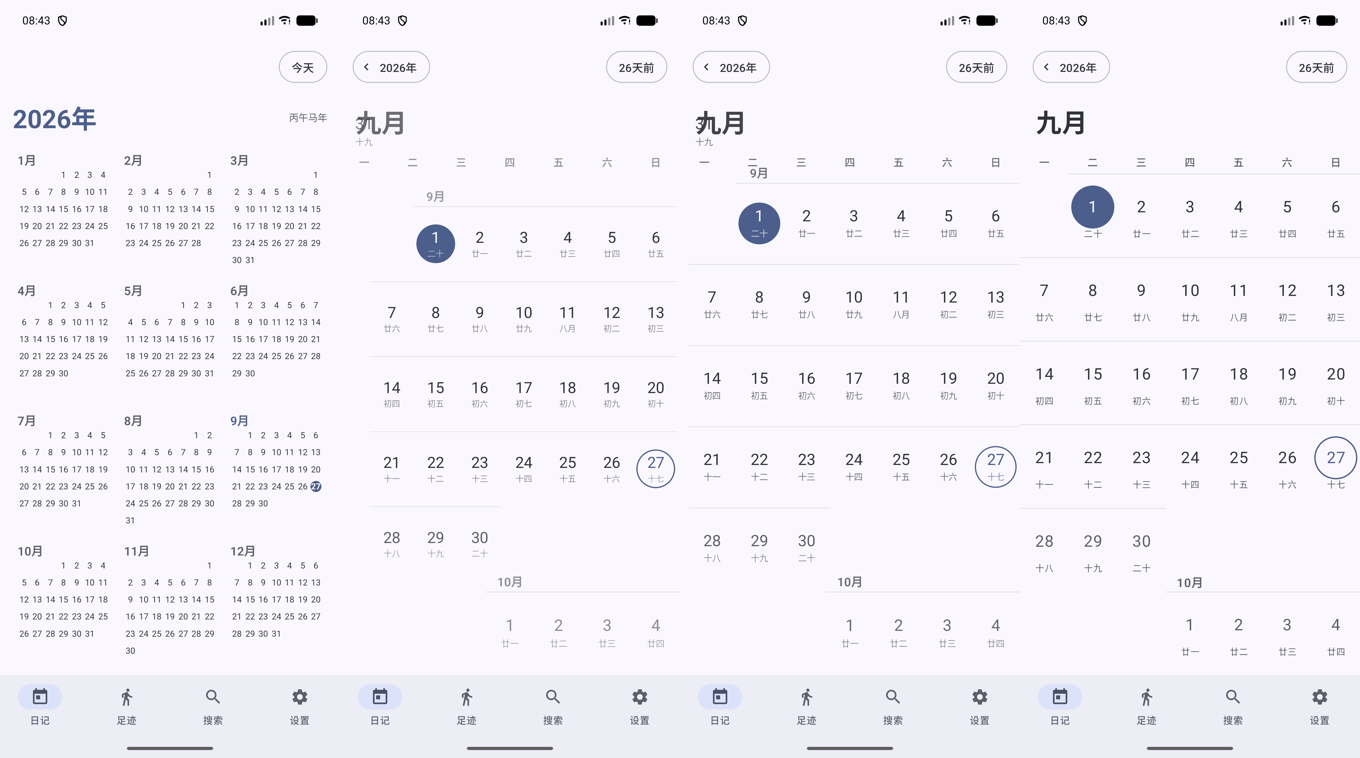
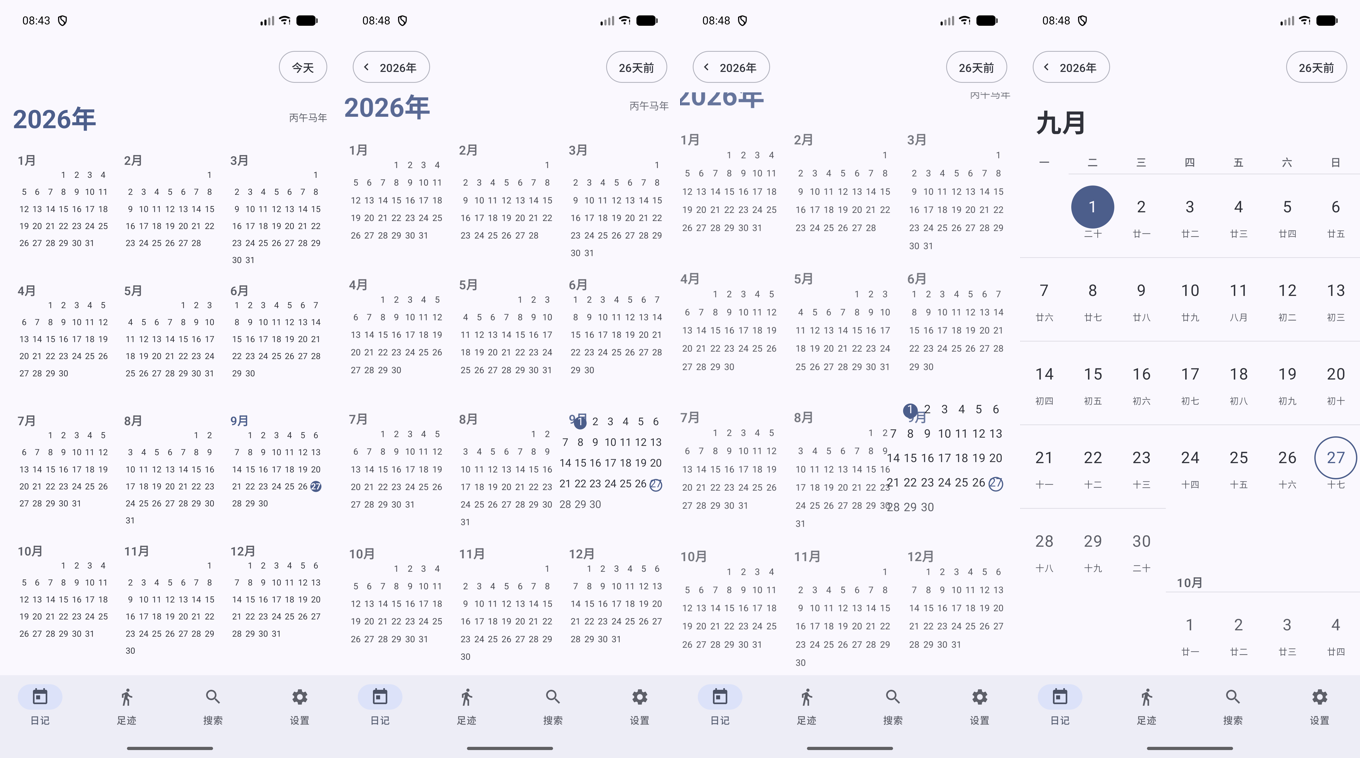
fix(home): morph 绘制裁在钉住栏之下；从年历进月态不再乱选 1 号
用户两条反馈：

1. "其他日期的动画是不需要的，特别是前一个月的日期……动画覆盖在顶部固定栏之上，
   导致在动画结束的时候，原本应该在固定栏下方的日期突然消失。"
   —— morph 层的绘制**没有裁在钉住栏之下**：连续流是 `height(viewportH) +
   offset(headerH) + clip`，morph 层却是想画哪儿画哪儿，"上个月露在视口里的那几行"
   因此画到了大标题与星期栏上面；收尾换回真实图层时它们按内容区被裁掉，看着就是
   "突然消失"。现在整块网格 / 两条 peek / 小标题统一 `clipRect(top = 钉住栏底部)`；
   并且上个月那几行**只在源矩形之上确实还露着时才画**（年→月时目标月已被拨到静止
   位置，上个月整块在内容区之上，本来就一行都不该画）。
2. "月视图下的选中日期的选中效果目前没有反应真实的选中日期，每次从年视图到月视图的
   时候都会自动在 1 号上显示选中效果，但实际不应该被选中。"
   —— iOS 的 `HomeViewModel.selectMonth(_:)` 只写 `monthPage`、**不动 `selectedDate`**，
   我在 Android 里顺手把选中日设成了该月 1 号。现在与 iOS 一致：选中日保持原样；
   它不在当前显示的月里时，月视图**没有高亮**（顶栏右胶囊照实显示具体日期）。

实测（AVD）：月→年首帧与点之前**逐像素相同**（0 个像素差异，含滚到半月位置的情况）；
年→月以被点卡片为中心展开、顶部再无越界日期；从年历点「10月」→ 月视图无高亮；
点「9月」→ 高亮回到真实的 9月27日。全量 418 条单测 + clean build 通过、零警告。

diff --git a/app/src/main/java/com/cov/justdiary/ui/home/YearMonthMorph.kt b/app/src/main/java/com/cov/justdiary/ui/home/YearMonthMorph.kt
@@ -18,6 +18,7 @@ import androidx.compose.ui.geometry.Offset
 import androidx.compose.ui.geometry.Size
 import androidx.compose.ui.graphics.Color
 import androidx.compose.ui.graphics.drawscope.DrawScope
+import androidx.compose.ui.graphics.drawscope.clipRect
 import androidx.compose.ui.graphics.drawscope.Stroke
 import androidx.compose.ui.graphics.graphicsLayer
 import androidx.compose.ui.platform.LocalDensity
@@ -157,9 +158,26 @@ fun YearMonthMorph(
             val cellPx = m.cellW * density.density
             val rowPx = m.cellH * density.density
 
+            // ⚠ **一切日期都裁在钉住栏之下**（内容区），与连续流的裁剪逐像素一致。
+            //
+            // 少了这一层裁剪：上个月露在视口里的那几行会画到**大标题与星期栏上面**，
+            // 而动画收尾换回真实图层时，流是按内容区裁的 —— 那些日期就"突然消失"
+            // （用户 2026-09-27 的原话）。年→月时更明显：目标月被无动画地拨到静止位置，
+            // 上个月整块都在内容区之上，本来就一行都不该画。
+            clipRect(
+                left = 0f,
+                top = bodyTop,
+                right = size.width,
+                bottom = size.height,
+            ) {
+
             // ---- 上个月露在视口里的那几行：不变换、快速淡出 ----
             val neighborAlpha = 1f - CalendarLayout.clamp01(p * 3f)
-            if (prevBlock != null && neighborAlpha > 0.01f) {
+            // 上个月那几行只在"源矩形之上确实还露着"时才画：年→月时目标月已经被拨到
+            // 静止位置，上个月整块都在内容区之上 —— 一行都不该画（用户：
+            // "特别是前一个月的日期，你现在前一个月的日期也有动画"）。
+            val prevBottom = prevBlock?.let { bodyTop + (it.bottom - off) * density.density } ?: 0f
+            if (prevBlock != null && neighborAlpha > 0.01f && prevBottom > bodyTop + 0.5f) {
                 CalendarGrid.displayedWeeks(prevBlock.monthFirst, weekStart).forEachIndexed { i, week ->
                     val rowY = bodyTop + (prevBlock.top + i * layout.rowH - off) * density.density
                     if (rowY + layout.rowH * density.density > bodyTop - 1f && rowY < size.height) {
@@ -287,6 +305,8 @@ fun YearMonthMorph(
                     alpha = peekAlpha,
                 )
             }
+
+            }   // clipRect：内容区（钉住栏之下）
         }
 
         // ---- 大标题 + 星期栏：位置不动，只按 `late` 淡入 ----

diff --git a/app/src/main/java/com/cov/justdiary/ui/home/HomeScreen.kt b/app/src/main/java/com/cov/justdiary/ui/home/HomeScreen.kt
@@ -441,7 +441,11 @@ fun HomeScreen(
         if (yearMorphing) return
         val key = CalendarGrid.monthKey(year, month)
         monthKey = key
-        selectedKey = DateUtil.dayKeyOf(LocalDate.of(year, month, 1))
+        // ⚠ **不动选中日** —— 与 iOS 的 `HomeViewModel.selectMonth(_:)` 一致（它只写
+        // `monthPage`）。这里曾经顺手把选中日设成该月 1 号，于是"从年历进月视图"会在
+        // 1 号上冒出一个选中效果，而那一天根本没被选过（用户 2026-09-27 反馈）。
+        // 选中日仍是原来那天：若它不在当前显示的月里，月视图就不该有任何高亮
+        // （顶栏右胶囊会照实显示具体日期，见 `todayPillLabel`）。
         jumpToMonth(key, animated = false)
         yearZoomingIn = false
         // ⚠ 这三行必须**同一帧**生效：`mode` 翻成月态、`yearMorphing` 置位、进度从 1 起。

diff --git a/docs/migration-progress.md b/docs/migration-progress.md
@@ -1995,6 +1995,30 @@ LazyRow(state = state, flingBehavior = rememberSnapFlingBehavior(state)) {
 修法：把网格左边缘 `gridLeft` 一路传给格子 / 分割线 / 小标题（相邻月那两条 peek 传 0，
 它们本来就铺满整宽）。截图 `docs/ui-audit/r7-1…r7-3`（重拍）。
 
+### 用户复测第 3 条：日期**不裁在钉住栏之下** + 进月态**乱选 1 号**
+
+用户："只要计算选中月的日期的动画，其他日期的动画是不需要的，特别是前一个月的日期……
+动画覆盖在顶部固定栏之上，导致在动画结束的时候，原本应该在固定栏下方的日期突然消失。"
+
+两处一起修：
+
+1. **morph 层的绘制没有裁在钉住栏之下**：连续流的内容是 `height(viewportH) + offset(headerH)
+   + clip` —— 也就是"钉住栏以下"才画；morph 层却是**想画哪儿画哪儿**。于是
+   "上个月露在视口里的那几行"画到了大标题与星期栏上面，而动画收尾换回真实图层时
+   那些日期按内容区被裁掉 —— 用户看到的"突然消失"。现在整块网格 / 两条 peek / 小标题
+   一律 `clipRect(top = 钉住栏底部)`，与连续流逐像素一致。
+   顺带：上个月那几行**只在源矩形之上确实还露着时才画**（年→月时目标月已被拨到静止位置，
+   上个月整块都在内容区之上，本来就一行都不该画）。
+2. **`openMonthFromYear` 乱选 1 号**：iOS 的 `HomeViewModel.selectMonth(_:)` 只写
+   `monthPage`，**不动 `selectedDate`**；我在 Android 里顺手把选中日设成了该月 1 号，
+   于是每次从年历进月视图都会在 1 号上冒出一个"选中"效果，而那天从没被选过
+   （用户第 4 条反馈）。现在与 iOS 一致：选中日保持原样，若它不在当前显示的月里，
+   月视图**没有任何高亮**（顶栏右胶囊照实显示具体日期）。
+
+实测：月→年**首帧与点之前逐像素相同（0 个像素差异，含滚到半月位置的情况）**；
+年→月网格以被点卡片为中心展开、顶部再无越界日期；从年历点「10月」后月视图无高亮、
+点「9月」后高亮回到真实的 9月27日。
+
 ### 单测抓到的两个真 bug（都已修）
 
 1. **矩形插值方向反了**：`lerpRect(source, target, t)` 在 `t = 1`（月侧）给的是**目标** ——
